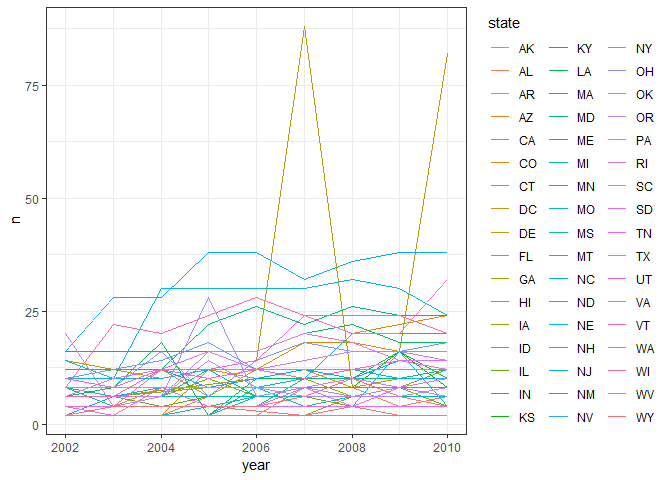
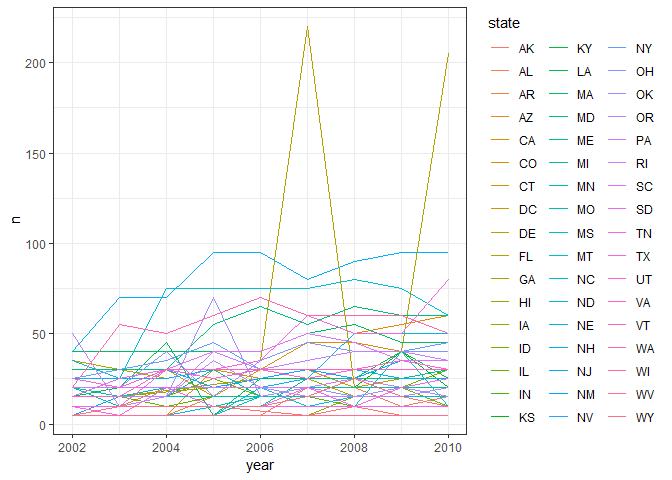
Made table with proportion of excellent responses

diff --git a/homework_3.md b/homework_3.md
@@ -37,9 +37,8 @@ brfss = brfss_smart2010 %>%
   filter(topic == "Overall Health") %>% 
   separate(locationdesc, into = c("state", "county"), sep = "- ") %>% 
   select(year, state, county, response, data_value) %>% 
-  filter(response %in% c("Excellent", "Poor")) %>% 
-  mutate(response = as.factor(response)) %>% 
-  arrange(response)
+  mutate(response = tolower(response)) %>% 
+  mutate(response = ordered(response, levels = c("excellent", "very good", "good", "fair", "poor")))
 ```
 
 I cleaned the data by: cleaning the names; keeping only the rows where the topic is overall health; separating "locationdesc" into state and county columns; and excluding unnecessary variables. I converted response to a factor varaible and arranged it with "Excellent"" on top.
@@ -47,16 +46,17 @@ I cleaned the data by: cleaning the names; keeping only the rows where the topic
 *In 2002, which states were observed at 7 locations?*
 
 ``` r
-brfss %>%
-  filter(year == "2002") %>%
+brfss %>% 
+  filter(year == "2002") %>% 
+  distinct(state, county, .keep_all = TRUE) %>% 
   count(state) %>% 
-  filter(n == 7) %>% 
+  filter(n == "7") %>% 
   nrow()
 ```
 
-    ## [1] 0
+    ## [1] 3
 
-There were no states observed at 7 locations.
+There were 3 states observed at 7 locations.
 
 *Make a “spaghetti plot” that shows the number of locations in each state from 2002 to 2010*
 
@@ -72,5 +72,24 @@ brfss %>%
 ![](homework_3_files/figure-markdown_github/unnamed-chunk-2-1.png)
 
 *Make a table showing, for the years 2002, 2006, and 2010, the mean and standard deviation of the proportion of “Excellent” responses across locations in NY State.*
+
+``` r
+brfss %>%
+  filter(year %in% c("2002", "2006", "2010")) %>% # Only need these years
+  filter(str_detect(state, "NY")) %>%  # Only need NY
+  spread(key = response, value = data_value) %>% # spread and mutate to create new col containing the proportion of excellent responses
+  janitor::clean_names() %>% 
+  mutate(proportion_excellent = (excellent)/(fair + good + poor + excellent + very_good)) %>%
+  group_by(year) %>% 
+  filter(!is.na(proportion_excellent)) %>%
+  summarize(mean = mean(proportion_excellent), std_dev = sd(proportion_excellent)) %>% 
+  knitr::kable(digits = 4)
+```
+
+|  year|    mean|  std\_dev|
+|-----:|-------:|---------:|
+|  2002|  0.2405|    0.0450|
+|  2006|  0.2253|    0.0400|
+|  2010|  0.2270|    0.0356|
 
 *For each year and state, compute the average proportion in each response category (taking the average across locations in a state). Make a five-panel plot that shows, for each response category separately, the distribution of these state-level averages over time.*
